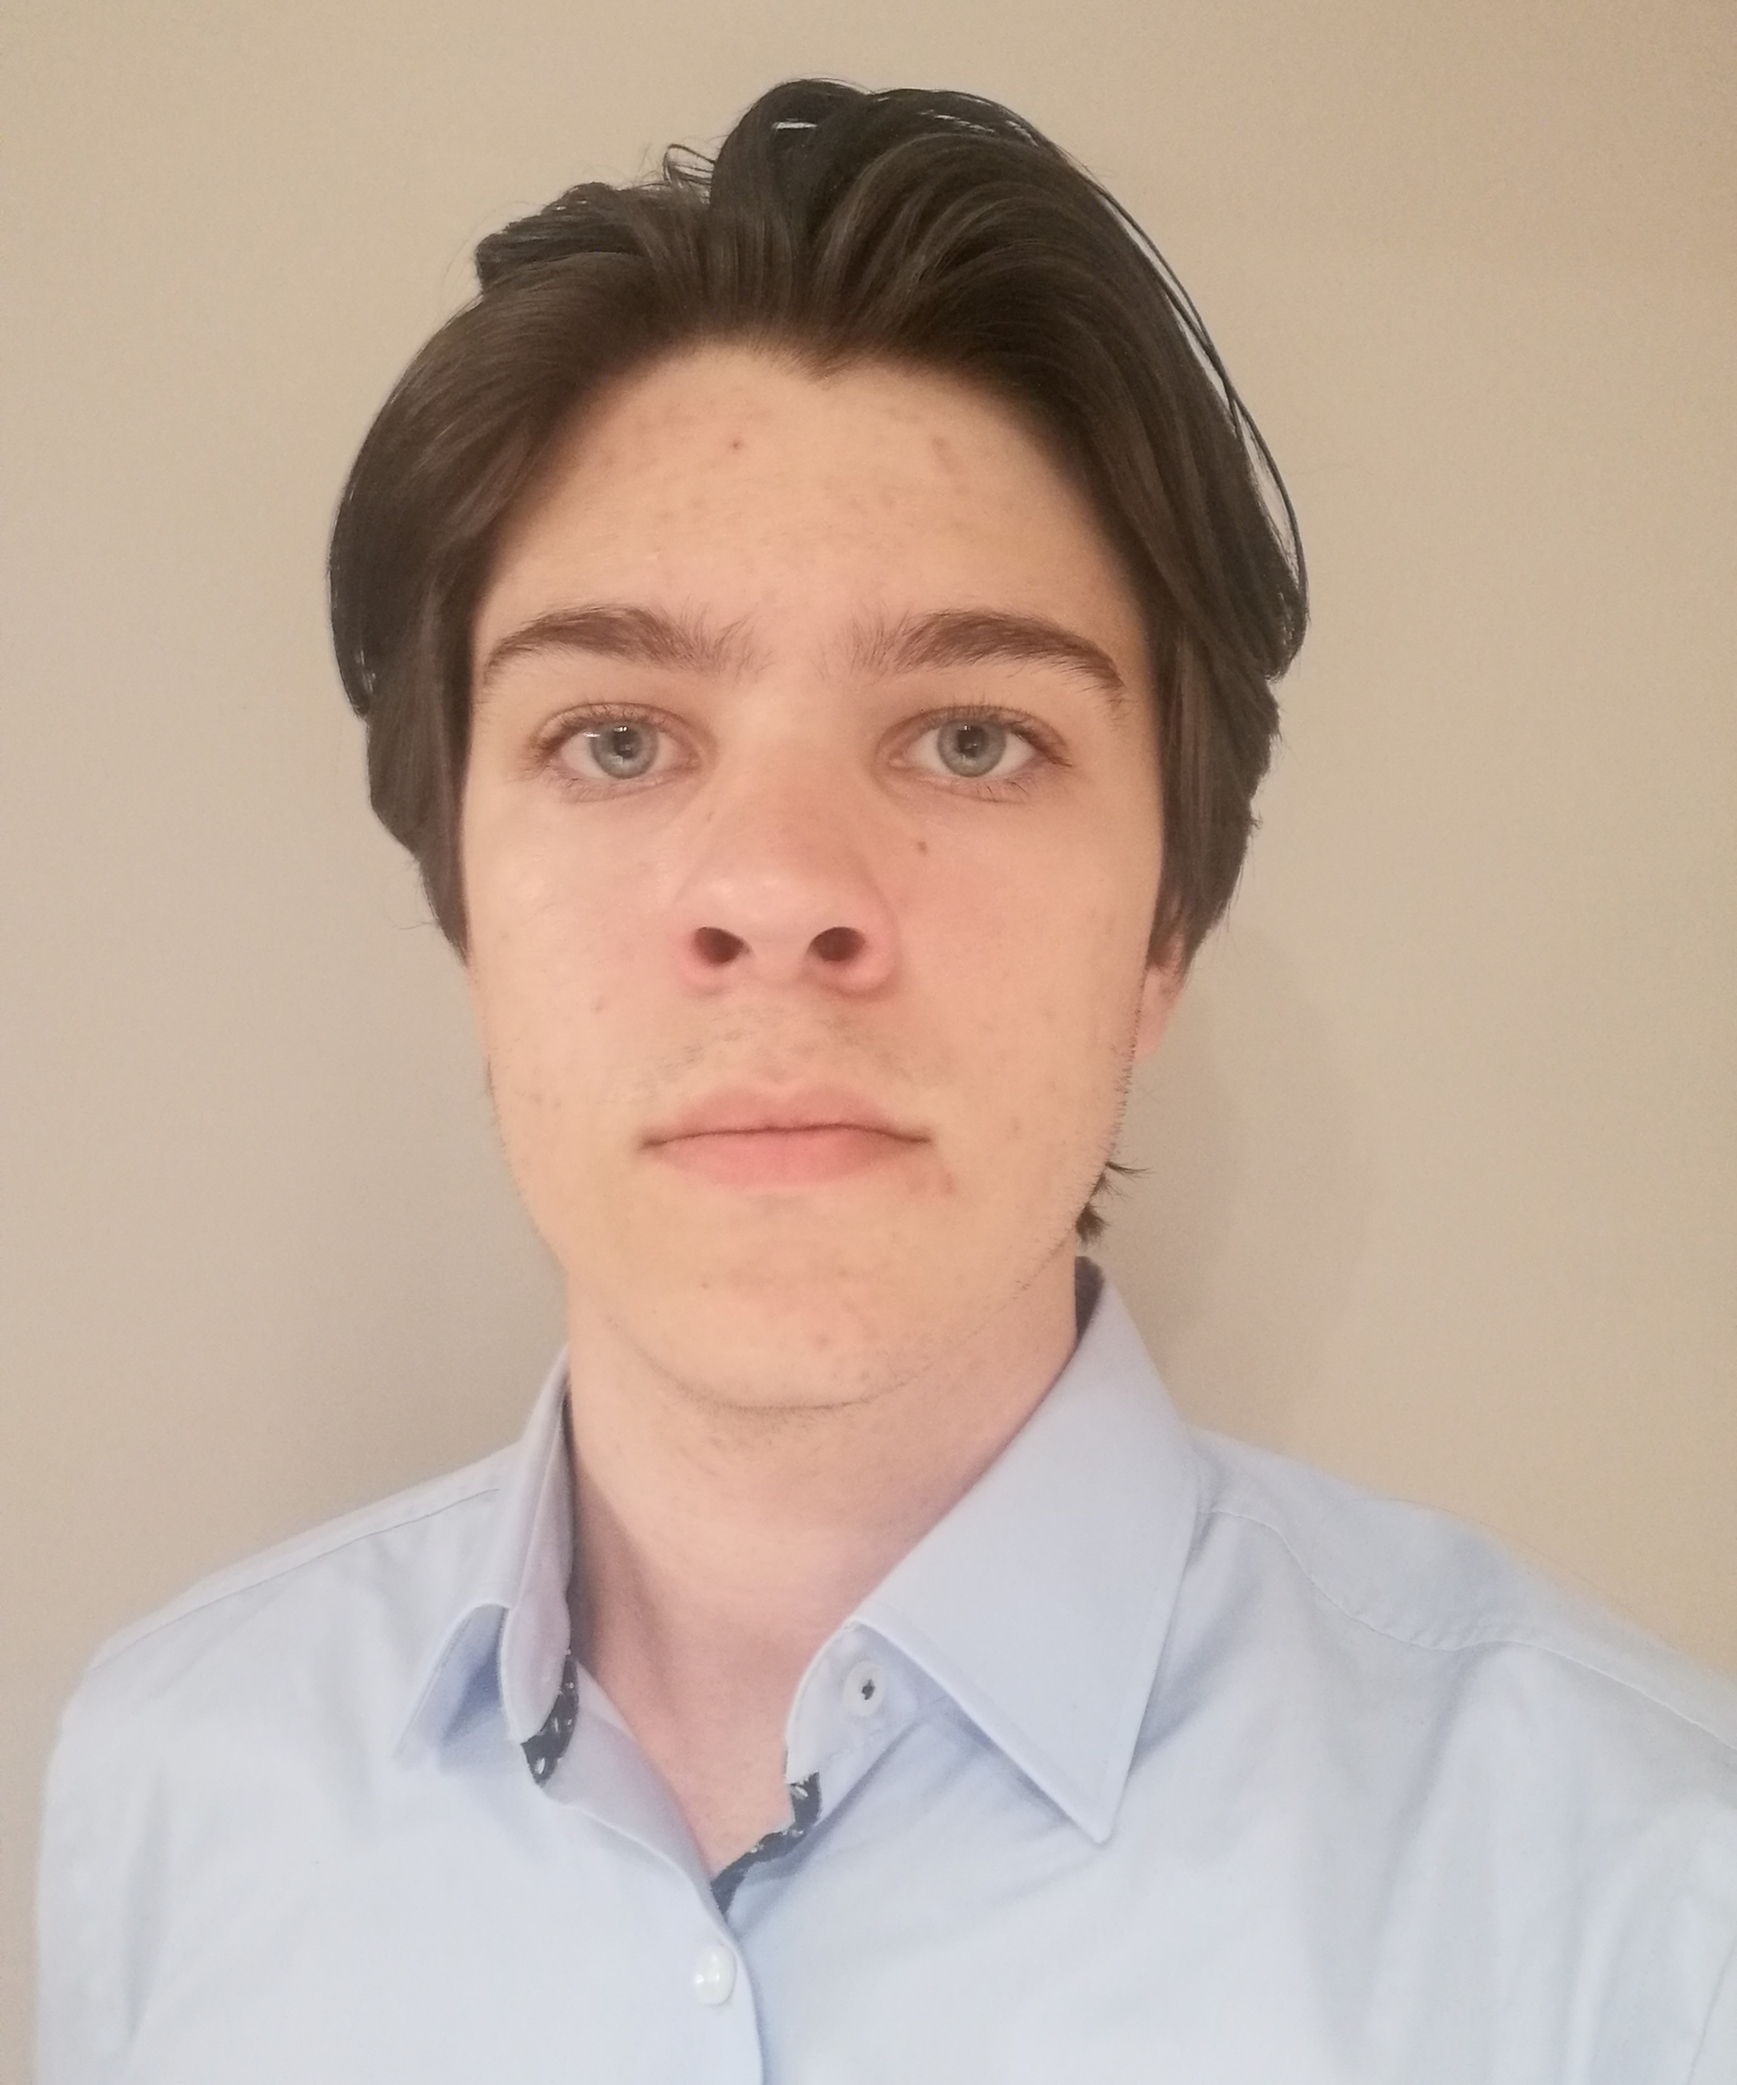
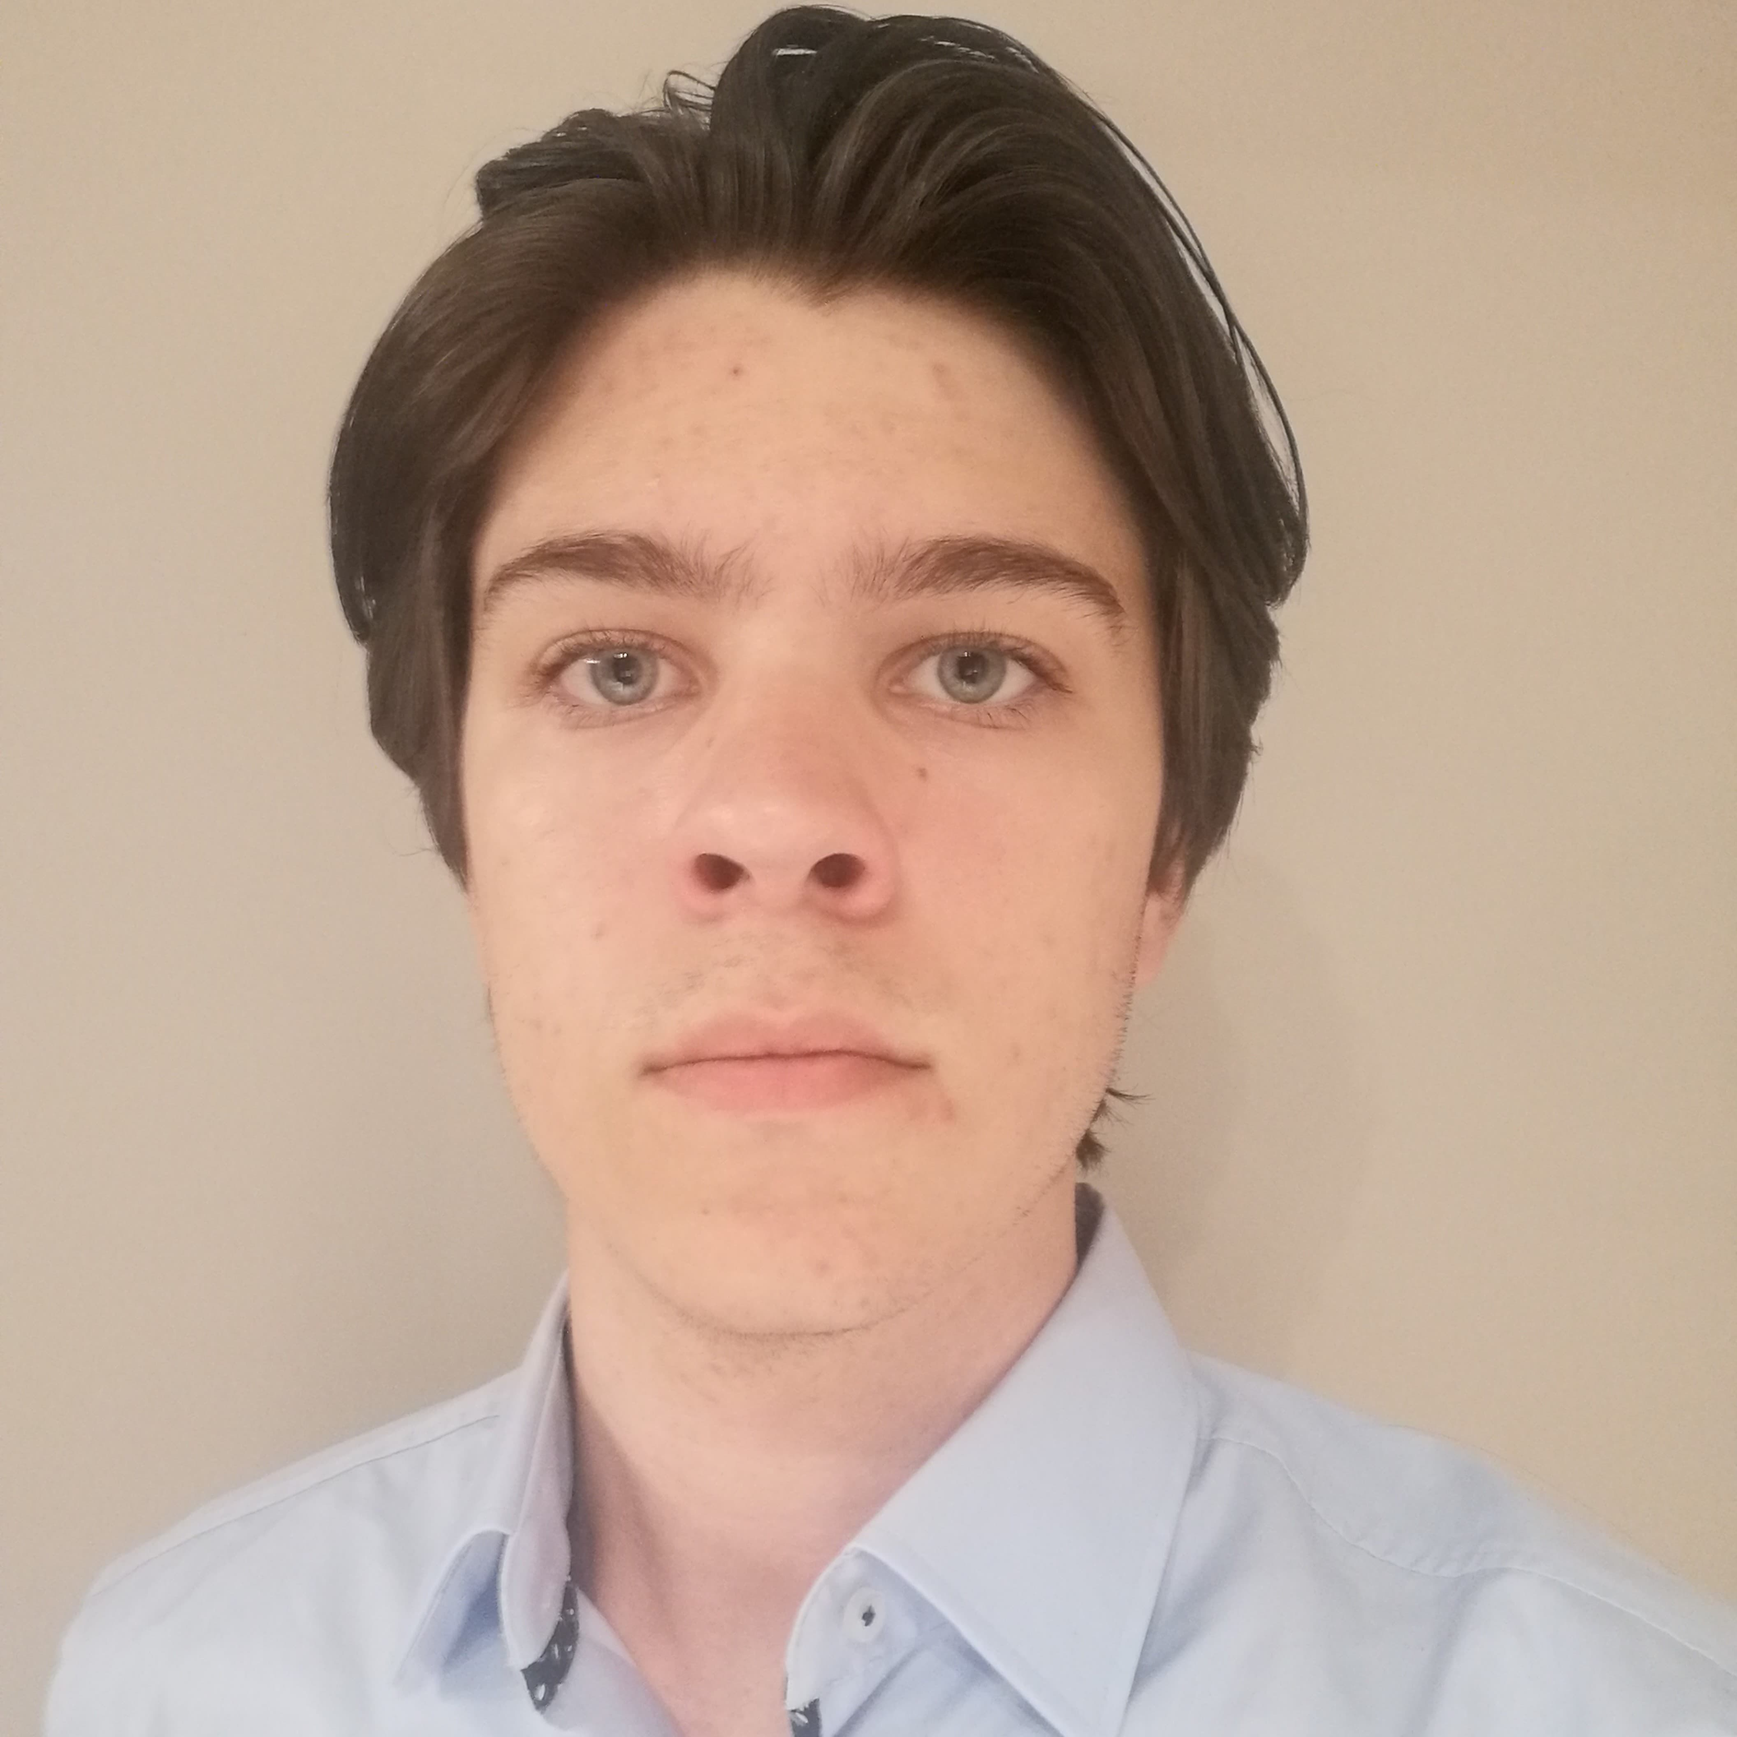
compress img

diff --git a/projects/projectList.js b/projects/projectList.js
@@ -8,7 +8,7 @@ let projectList = [
             "Ce petit jeu vidéo jouable sur navigateur à été réalisé avec Phaser 3, un framework JavaScript. Le but du jeu est de récolter les pièces en légo tous en évitant des missiles, des avions et les boules de feu de Wario. Il est possible de tuer Wario en lui tirant dessus. Mais... Wario est très fort est réapparait souvent ! Il est possible de voler, ainsi que de se déplacer.",
             "Ce petit projet à été développé dans le cadre de mon BUT informatique.",
         ],
-        linkimage: ["projects/images/phaserLego/gameScreen.PNG"],
+        linkimage: ["projects/images/phaserLego/gameScreen.jpg"],
         linkproject: [],
     },
     {
@@ -32,7 +32,7 @@ let projectList = [
         description: [
             "Ce site web permet de visualiser et commander des billets de trains. Il s'inscrit dans le cadre de ma première année de BUT informatique à Valence. Il nous était fourni un serveur pour pouvoir récupérer les différentes informations. Nous pouvions aussi intéragir avec celui-ci pour se connecter à un profil client, ou procéder au paiement de un ou plusieurs billets de train.",
         ],
-        linkimage: ["projects/images/traintravel/1market.png", "projects/images/traintravel/2search.png", "projects/images/traintravel/3result.png", "projects/images/traintravel/4inteMaps.png", "projects/images/traintravel/5bestsales.png"],
+        linkimage: ["projects/images/traintravel/1market.jpg", "projects/images/traintravel/2search.jpg", "projects/images/traintravel/3result.jpg", "projects/images/traintravel/4inteMaps.jpg", "projects/images/traintravel/5bestsales.jpg"],
         linkproject: [
             ["Visit the website (limited functionality)", "https://noix2kgouu.github.io/TrainTravel/"],
             ["Github", "https://github.com/noix2kgouu/TrainTravel"],

diff --git a/about/aboutP.html b/about/aboutP.html
@@ -30,7 +30,7 @@
         </script>
 
         <section id="container" data-aos="zoom-in">
-            <img src="../assets/aboutAssets/photo2.jpg" />
+            <img src="../assets/aboutAssets/photo.jpg"/>
             <h1>Lorris CRAPPIER</h1>
             <p>Étudiant en 2ème année de BUT informatique à l’IUT d’Annecy. Je prévoit de réaliser le parcours administration, gestion et exploitation des données dès le semestre 4 (fin janvier 2023).</p>
             <p>Je suis actuellement à la recherche d’un stage dans le domaine de la donnée. Celui-ci devra être d’une durée de 8 à 12 semaine, la date de début de stage est prévu au lundi 11 avril 2023.</p>
